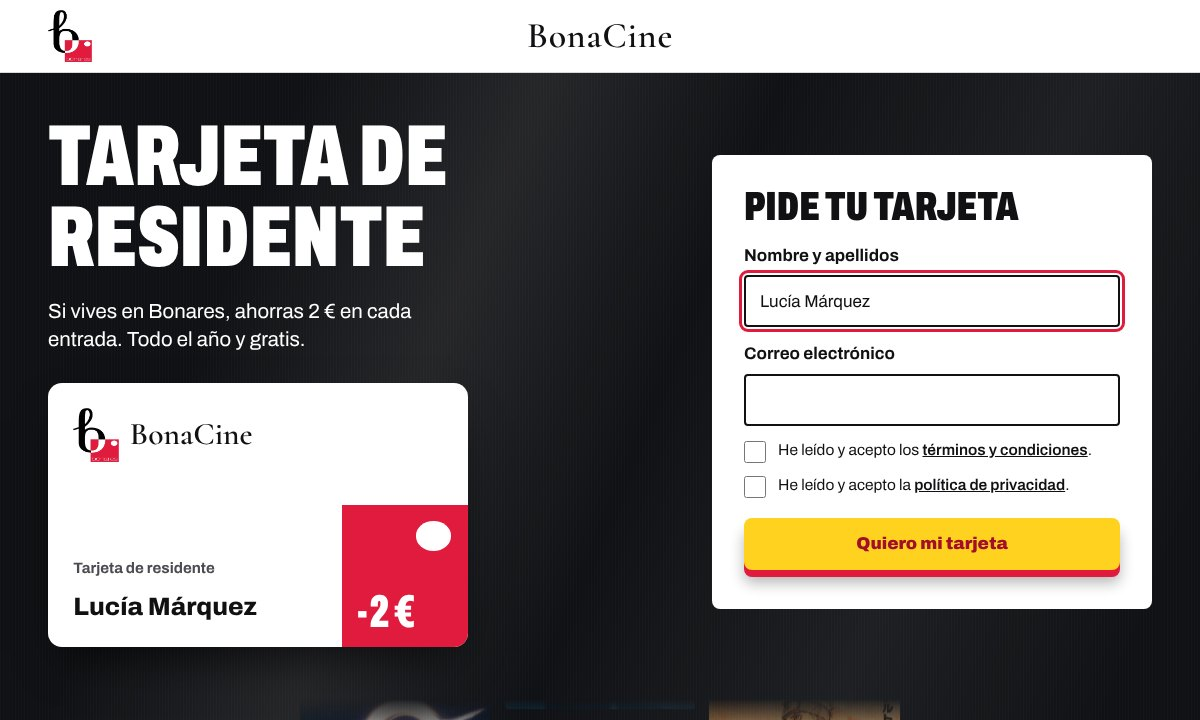
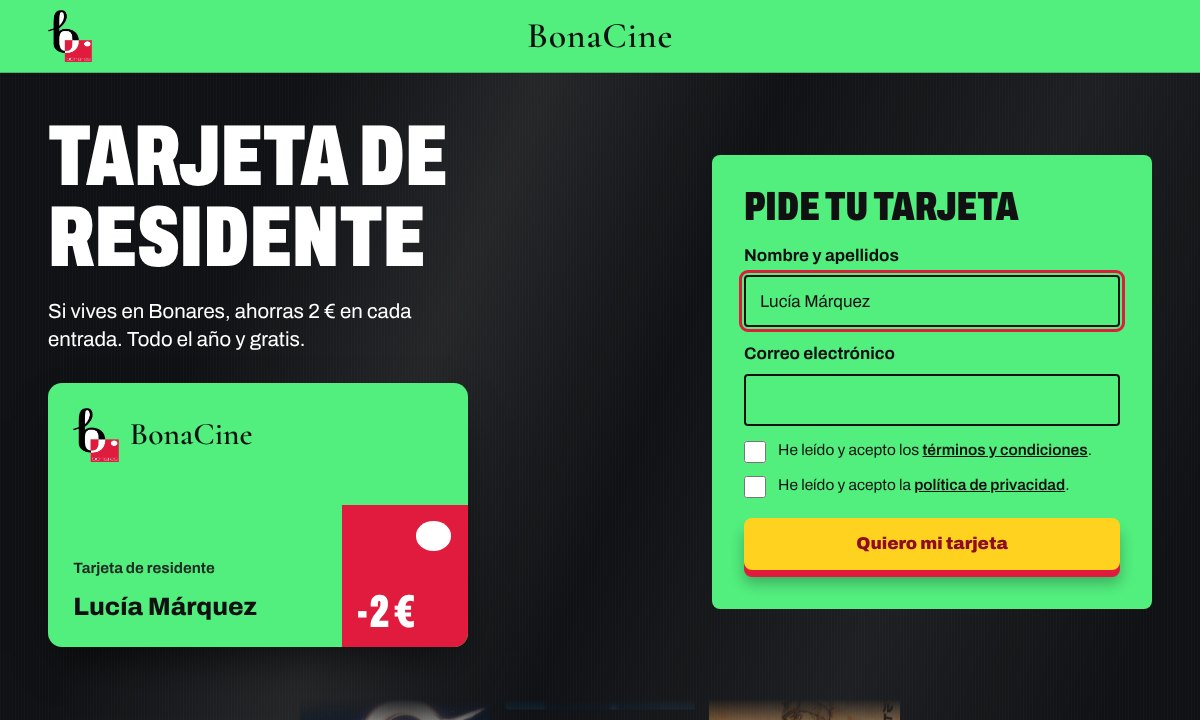
BonaCine: nueva paleta verde, mapa del teatro y datos de contacto
El verde brillante sustituye al blanco de fondo en la web, la landing y
la página legal. Añade la dirección y el mapa del Teatro Cine Colón, y
actualiza la dirección y el correo del pie, el FAQ y los textos legales.

Claude-Session: https://claude.ai/code/session_01HTnURbXqmEmRvNcHuEAsN1

diff --git a/trabajos/bonacine/estilos.css b/trabajos/bonacine/estilos.css
@@ -1,4 +1,5 @@
-/* BonaCine. Marca: rojo, negro y blanco del logo; amarillo solo para el CTA. */
+/* BonaCine. Marca: rojo, verde brillante y negro. El verde sustituye al blanco de fondo.
+   El blanco queda solo para texto sobre rojo o negro; el amarillo, para el CTA. */
 
 @font-face {
   font-family: "Cormorant Garamond";
@@ -17,8 +18,8 @@
 
 :root {
   --rojo: #E11B3D;
-  --rojo-oscuro: #B4122F;
-  --rojo-texto: #A30F2A;
+  --rojo-oscuro: #8F0C24;
+  --rojo-texto: #8F0C24;
   --amarillo: #FFD21F;
   --verde: #1E9E5A;
   /* Negro metálico: reflejos suaves, como una chapa cepillada */
@@ -28,9 +29,10 @@
     #111215;
   --negro: #111113;
   --blanco: #FFFFFF;
-  --gris: #4B4B52;
-  --linea: #D9D9DE;
-  --suave: #F4F4F5;
+  --fondo: #52EE7E;
+  --gris: #1F2B24;
+  --linea: rgb(17 17 19 / .24);
+  --suave: #38D964;
   --margen: clamp(16px, 4vw, 48px);
   --radio: 4px;
   --curva: cubic-bezier(0.16, 1, 0.3, 1);
@@ -41,7 +43,7 @@
 html { scroll-behavior: smooth; scroll-padding-top: 88px; -webkit-text-size-adjust: 100%; }
 body {
   margin: 0;
-  background: var(--blanco);
+  background: var(--fondo);
   color: var(--negro);
   font: 400 17px/1.55 "Archivo", Arial, sans-serif;
 }
@@ -106,7 +108,7 @@ h2 {
 /* ---------- Cabecera ---------- */
 .cabecera {
   position: sticky; top: 0; z-index: 20;
-  background: var(--blanco);
+  background: var(--fondo);
   border-bottom: 1px solid var(--linea);
 }
 .cabecera .envoltura { display: grid; grid-template-columns: 1fr auto 1fr; align-items: center; gap: 20px; height: 72px; }
@@ -174,7 +176,7 @@ h2 {
 .cal-dias { display: flex; gap: 8px; margin-top: 28px; overflow-x: auto; padding-bottom: 6px; scrollbar-width: thin; }
 .dia {
   flex: 1 0 76px; display: grid; justify-items: center; gap: 0; padding: 10px 6px;
-  border: 2px solid var(--negro); border-radius: var(--radio); background: var(--blanco); color: var(--negro);
+  border: 2px solid var(--negro); border-radius: var(--radio); background: var(--fondo); color: var(--negro);
   font: 600 .875rem/1.2 "Archivo", Arial, sans-serif; cursor: pointer;
   transition: background-color .18s ease, color .18s ease;
 }
@@ -185,7 +187,7 @@ h2 {
 .sesion {
   display: grid; grid-template-columns: auto minmax(0, 1fr); gap: 16px; align-items: center; width: 100%;
   padding: 14px 16px; border: 2px solid var(--linea); border-radius: var(--radio);
-  background: var(--blanco); color: var(--negro); text-align: left; font: inherit; cursor: pointer;
+  background: var(--fondo); color: var(--negro); text-align: left; font: inherit; cursor: pointer;
   transition: border-color .18s ease;
 }
 .sesion:hover { border-color: var(--negro); }
@@ -198,13 +200,13 @@ h2 {
 .barra .libre { background: var(--verde); }
 .barra .pendiente { background: var(--amarillo); }
 .barra .ocupado { background: var(--rojo); }
-.cal-mapa { scroll-margin: 88px 0 96px; background: var(--suave); border-radius: 8px; padding: clamp(18px, 3vw, 32px); }
+.cal-mapa { scroll-margin: 88px 0 96px; background: var(--negro); color: var(--blanco); border-radius: 8px; padding: clamp(18px, 3vw, 32px); }
 .mapa-titulo { font-size: 1.5rem; font-weight: 800; font-stretch: 85%; line-height: 1.15; }
-.mapa-datos { color: var(--gris); font-size: .9375rem; }
+.mapa-datos { color: var(--blanco); font-size: .9375rem; }
 .pantalla {
   width: 72%; margin: 20px auto 22px; padding-bottom: 6px;
-  border-bottom: 5px solid var(--negro); border-radius: 0 0 50% 50% / 0 0 14px 14px;
-  text-align: center; font-size: .8125rem; font-weight: 700; color: var(--gris);
+  border-bottom: 5px solid var(--blanco); border-radius: 0 0 50% 50% / 0 0 14px 14px;
+  text-align: center; font-size: .8125rem; font-weight: 700; color: var(--blanco);
 }
 .butacas {
   display: grid; grid-template-columns: repeat(var(--columnas), minmax(0, 1fr));
@@ -215,7 +217,7 @@ h2 {
   border-radius: 28% 28% 12% 12%; font-size: clamp(9px, 1.1vw, 14px); font-weight: 900; line-height: 1;
 }
 /* Además del color, cada estado lleva su signo para quien no distingue bien rojo y verde */
-.butaca.libre { background: var(--verde); }
+.butaca.libre { background: var(--fondo); }
 .butaca.pendiente { background: var(--amarillo); color: var(--negro); }
 .butaca.pendiente::after { content: "?"; }
 .butaca.ocupado { background: var(--rojo); color: var(--blanco); }
@@ -253,14 +255,14 @@ h2 {
 .ventajas { margin-top: auto; padding-top: 36px; display: grid; gap: 10px; }
 .ventajas li { display: flex; gap: 10px; line-height: 1.3; font-weight: 500; }
 .ventajas .icono { margin-top: .12em; }
-.matriz { background: var(--blanco); padding: clamp(28px, 4vw, 52px); padding-left: clamp(32px, 4.4vw, 60px); }
+.matriz { background: var(--fondo); padding: clamp(28px, 4vw, 52px); padding-left: clamp(32px, 4.4vw, 60px); }
 
 .campo { display: grid; gap: 6px; margin-bottom: 18px; }
 .campo label { font-weight: 700; }
 .campo input {
   width: 100%; min-height: 52px; padding: 0 14px;
   border: 2px solid var(--negro); border-radius: var(--radio);
-  background: var(--blanco); color: var(--negro);
+  background: var(--fondo); color: var(--negro);
   font: 400 1.0625rem "Archivo", Arial, sans-serif;
 }
 .campo input:focus-visible, .casilla input:focus-visible { outline: 3px solid var(--rojo); outline-offset: 2px; }
@@ -285,10 +287,13 @@ h2 {
 
 /* ---------- Dónde ---------- */
 .final { padding-block: clamp(56px, 8vw, 104px); }
-.final .envoltura { display: grid; grid-template-columns: 5fr 6fr; gap: 24px clamp(40px, 7vw, 96px); align-items: end; }
-.donde > p:first-child { max-width: 40ch; font-size: 1.1875rem; }
-.lugar { display: flex; gap: 8px; align-items: center; margin-top: 18px; font-weight: 800; }
-.lugar .icono { color: var(--rojo); }
+.final .envoltura { display: grid; grid-template-columns: 5fr 6fr; gap: 28px clamp(40px, 6vw, 80px); align-items: stretch; }
+.donde p { max-width: 40ch; margin-top: 16px; font-size: 1.1875rem; }
+.donde .lugar { display: flex; gap: 8px; align-items: flex-start; font-weight: 800; font-size: 1.0625rem; }
+.lugar .icono { margin-top: .2em; color: var(--rojo-oscuro); }
+.donde .boton { margin-top: 22px; }
+.mapa { min-height: 360px; border: 2px solid var(--negro); border-radius: var(--radio); overflow: hidden; background: var(--suave); }
+.mapa iframe { display: block; width: 100%; height: 100%; min-height: 356px; border: 0; }
 
 /* ---------- Preguntas frecuentes ---------- */
 .faq { padding-block: 0 clamp(56px, 8vw, 104px); }
@@ -331,7 +336,7 @@ h2 {
 .news-fila { display: flex; gap: 8px; margin-bottom: 6px; }
 .news-fila input {
   flex: 1; min-width: 0; min-height: 48px; padding: 0 12px;
-  border: 2px solid var(--negro); border-radius: var(--radio); background: var(--blanco); color: var(--negro);
+  border: 2px solid var(--negro); border-radius: var(--radio); background: var(--fondo); color: var(--negro);
   font: 400 1rem "Archivo", Arial, sans-serif;
 }
 .news-fila input:focus-visible { outline: 3px solid var(--rojo); outline-offset: 2px; }
@@ -346,7 +351,7 @@ h2 {
 .barra-cta {
   display: none; position: fixed; z-index: 15; left: 0; right: 0; bottom: 0;
   padding: 10px 16px calc(10px + env(safe-area-inset-bottom));
-  background: var(--blanco); border-top: 1px solid var(--linea);
+  background: var(--fondo); border-top: 1px solid var(--linea);
   transform: translateY(110%); visibility: hidden;
   transition: transform .3s var(--curva), visibility 0s .3s;
 }

diff --git a/trabajos/bonacine/legal.html b/trabajos/bonacine/legal.html
@@ -8,10 +8,10 @@
 <link rel="icon" href="img/favicon.png">
 <style>
   @font-face{font-family:"Archivo";src:url("fuentes/archivo-variable.woff2") format("woff2");font-weight:100 900;font-stretch:62% 125%;font-display:swap}
-  :root{--ink:#111113;--muted:#4b4b52;--rojo:#E11B3D;--linea:#e4e4e7;color-scheme:light}
+  :root{--ink:#111113;--muted:#1F2B24;--rojo:#E11B3D;--linea:rgb(17 17 19 / .24);color-scheme:light}
   *{box-sizing:border-box}
   html{scroll-behavior:smooth}
-  body{margin:0;background:#fff;color:var(--ink);font:400 17px/1.6 "Archivo",Arial,sans-serif}
+  body{margin:0;background:#52EE7E;color:var(--ink);font:400 17px/1.6 "Archivo",Arial,sans-serif}
   main{max-width:72ch;margin:0 auto;padding:32px 16px 80px}
   .volver{color:var(--ink);font-weight:700}
   .aviso{border-left:4px solid var(--rojo);padding:4px 0 4px 14px;color:var(--muted)}
@@ -21,7 +21,7 @@
   nav{display:flex;flex-wrap:wrap;gap:6px 16px;margin-top:16px}
   nav a{color:var(--ink);font-weight:700}
   p,li,td{color:var(--muted)}
-  a{color:#B4122F}
+  a{color:#8F0C24}
   table{width:100%;border-collapse:collapse;margin:8px 0}
   th,td{text-align:left;vertical-align:top;padding:8px 10px 8px 0;border-top:1px solid var(--linea)}
   th{color:var(--ink);width:38%}
@@ -32,7 +32,7 @@
 <main>
   <a class="volver" href="./">Volver a BonaCine</a>
   <h1>Información legal</h1>
-  <p class="aviso">BonaCine es un cine ficticio creado para un trabajo de clase del Grado Superior de Marketing y Publicidad. Los datos de la empresa son de ejemplo y este texto no sustituye al asesoramiento de un profesional.</p>
+  <p class="aviso">BonaCine es un cine ficticio creado para un trabajo de clase del Grado Superior de Marketing y Publicidad. El NIF y los datos registrales son de ejemplo, y este texto no sustituye al asesoramiento de un profesional.</p>
   <nav aria-label="Secciones">
     <a href="#aviso-legal">Aviso legal</a>
     <a href="#privacidad">Privacidad</a>
@@ -48,9 +48,9 @@
   <table>
     <tr><th>Denominación social</th><td>BonaCine, S.L. (empresa ficticia)</td></tr>
     <tr><th>NIF</th><td>B00000000</td></tr>
-    <tr><th>Domicilio</th><td>Calle Ejemplo, 1, 21830 Bonares (Huelva)</td></tr>
+    <tr><th>Domicilio</th><td>Calle Ermita, 36, 21830 Bonares (Huelva)</td></tr>
     <tr><th>Datos registrales</th><td>Registro Mercantil de Huelva, tomo 0000, folio 00, hoja H-00000</td></tr>
-    <tr><th>Contacto</th><td>hola@bonacine.example</td></tr>
+    <tr><th>Contacto</th><td>Bonacine@gmail.com</td></tr>
   </table>
   <h3>Propiedad intelectual</h3>
   <p>Los textos, el diseño y la marca BonaCine pertenecen a su titular. Los títulos y carteles de las películas pertenecen a sus productoras y distribuidoras.</p>
@@ -78,10 +78,10 @@
   <h3>Cuánto tiempo los conservamos</h3>
   <p>Mientras sigas registrado. Cuando pidas la baja, bloquearemos tus datos durante los plazos en que pudieran exigirse responsabilidades y después los suprimiremos.</p>
   <h3>Tus derechos</h3>
-  <p>Puedes pedir el acceso, la rectificación, la supresión, la oposición, la limitación del tratamiento y la portabilidad de tus datos, y retirar tu consentimiento, escribiendo a hola@bonacine.example. También puedes reclamar ante la <a href="https://www.aepd.es">Agencia Española de Protección de Datos</a>.</p>
+  <p>Puedes pedir el acceso, la rectificación, la supresión, la oposición, la limitación del tratamiento y la portabilidad de tus datos, y retirar tu consentimiento, escribiendo a Bonacine@gmail.com. También puedes reclamar ante la <a href="https://www.aepd.es">Agencia Española de Protección de Datos</a>.</p>
 
   <h2 id="cookies">Política de cookies</h2>
-  <p>Esta web no instala cookies de análisis, de publicidad ni de redes sociales, y sus tipografías se cargan desde la propia web. Por eso no muestra un banner de cookies. Si esto cambiara, te pediríamos permiso antes de instalarlas.</p>
+  <p>Esta web no instala cookies de análisis, de publicidad ni de redes sociales, y sus tipografías se cargan desde la propia web. Por eso no muestra un banner de cookies. El mapa de la página principal lo sirve OpenStreetMap, que recibe tu dirección IP al cargarlo. Si esto cambiara, te pediríamos permiso antes de instalarlas.</p>
 
   <h2 id="terminos">Términos y condiciones</h2>
   <h3>Uso de la web</h3>
@@ -117,10 +117,10 @@
   </ul>
 
   <h2 id="reclamaciones">Quejas y reclamaciones</h2>
-  <p>Tienes a tu disposición hojas oficiales de quejas y reclamaciones de la Junta de Andalucía en la taquilla del cine. También puedes escribirnos a hola@bonacine.example.</p>
+  <p>Tienes a tu disposición hojas oficiales de quejas y reclamaciones de la Junta de Andalucía en la taquilla del cine. También puedes escribirnos a Bonacine@gmail.com.</p>
 
   <h2 id="baja">Darse de baja</h2>
-  <p>Puedes dejar de recibir la newsletter en cualquier momento y gratis: usa el enlace de baja que incluye cada correo o escribe a hola@bonacine.example con el asunto «BAJA».</p>
+  <p>Puedes dejar de recibir la newsletter en cualquier momento y gratis: usa el enlace de baja que incluye cada correo o escribe a Bonacine@gmail.com con el asunto «BAJA».</p>
 </main>
 </body>
 </html>

diff --git a/trabajos/bonacine/tarjeta.css b/trabajos/bonacine/tarjeta.css
@@ -16,7 +16,7 @@ h1 {
 .tarjeta-visual {
   position: relative; overflow: hidden; container-type: inline-size;
   width: min(100%, 420px); aspect-ratio: 1.586; margin-top: clamp(24px, 4vh, 36px);
-  border-radius: 14px; background: var(--blanco); color: var(--negro);
+  border-radius: 14px; background: var(--fondo); color: var(--negro);
   box-shadow: 0 22px 44px -16px rgb(0 0 0 / .7);
 }
 .tv-cabeza { position: absolute; top: 6cqw; left: 6cqw; display: flex; align-items: center; gap: 2.5cqw; }
@@ -32,7 +32,7 @@ h1 {
 .tv-importe { position: absolute; left: 3.5cqw; bottom: 3cqw; font-size: 11cqw; font-weight: 900; font-stretch: 62%; line-height: 1; }
 
 /* Formulario */
-.panel-form { background: var(--blanco); color: var(--negro); border-radius: 8px; padding: clamp(22px, 3vw, 32px); }
+.panel-form { background: var(--fondo); color: var(--negro); border-radius: 8px; padding: clamp(22px, 3vw, 32px); }
 .panel-form h2 { margin-bottom: 16px; font-size: clamp(2rem, 3.4vw, 2.75rem); }
 .panel-form .campo { margin-bottom: 14px; }
 .panel-form .boton { width: 100%; margin-top: 8px; }
@@ -49,7 +49,7 @@ h1 {
 .resena { display: grid; grid-template-columns: 84px minmax(0, 1fr); gap: 18px; padding-bottom: 22px; border-bottom: 1px solid var(--linea); }
 .resena img { width: 100%; height: auto; aspect-ratio: 2 / 3; object-fit: cover; border-radius: var(--radio); }
 .resena h3 { font-size: 1.3125rem; font-weight: 800; font-stretch: 85%; line-height: 1.15; }
-.nota { display: block; margin: 4px 0 6px; color: var(--rojo); font-size: 1.125rem; letter-spacing: .08em; line-height: 1; }
+.nota { display: block; margin: 4px 0 6px; color: var(--rojo-oscuro); font-size: 1.125rem; letter-spacing: .08em; line-height: 1; }
 .nota-vacia { color: var(--linea); }
 .resena-autor { margin-top: 8px; color: var(--gris); font-size: .875rem; font-weight: 600; }
 
@@ -58,7 +58,7 @@ h1 {
 .form-resena .campo { margin-bottom: 14px; }
 .campo select, .campo textarea {
   width: 100%; padding: 12px 14px; border: 2px solid var(--negro); border-radius: var(--radio);
-  background: var(--blanco); color: var(--negro); font: 400 1.0625rem/1.4 "Archivo", Arial, sans-serif;
+  background: var(--fondo); color: var(--negro); font: 400 1.0625rem/1.4 "Archivo", Arial, sans-serif;
 }
 .campo select { min-height: 52px; }
 .campo textarea { resize: vertical; }
@@ -66,8 +66,8 @@ h1 {
 .estrellas { margin: 0 0 14px; padding: 0; border: 0; }
 .estrellas legend { padding: 0; margin-bottom: 4px; font-weight: 700; }
 .estrellas-fila { display: flex; gap: 2px; }
-.estrellas-fila label { position: relative; display: grid; place-items: center; width: 44px; height: 44px; color: #8E8E96; font-size: 1.875rem; cursor: pointer; }
-.estrellas-fila label.activa { color: var(--rojo); }
+.estrellas-fila label { position: relative; display: grid; place-items: center; width: 44px; height: 44px; color: rgb(17 17 19 / .38); font-size: 1.875rem; cursor: pointer; }
+.estrellas-fila label.activa { color: var(--rojo-oscuro); }
 .estrellas-fila input { position: absolute; inset: 0; margin: 0; opacity: 0; cursor: pointer; }
 .estrellas-fila label:has(input:focus-visible) { outline: 3px solid var(--rojo); outline-offset: 1px; border-radius: var(--radio); }
 .form-resena .boton { width: 100%; margin-top: 6px; }

diff --git a/trabajos/bonacine/index.html b/trabajos/bonacine/index.html
@@ -5,7 +5,7 @@
 <meta name="viewport" content="width=device-width, initial-scale=1">
 <title>BonaCine | Estrenos en Bonares, Huelva</title>
 <meta name="description" content="El Peliculón llega a Bonares. Regístrate gratis en BonaCine y llévate 2 € de descuento en tu primera entrada.">
-<meta name="theme-color" content="#E11B3D">
+<meta name="theme-color" content="#52EE7E">
 <meta property="og:title" content="BonaCine | Estrenos en Bonares, Huelva">
 <meta property="og:description" content="Regístrate gratis y llévate 2 € de descuento en tu primera entrada.">
 <meta property="og:type" content="website">
@@ -135,10 +135,14 @@
 
   <section class="final" id="donde" aria-labelledby="titulo-donde">
     <div class="envoltura">
-      <h2 id="titulo-donde">Tu cine está aquí al lado</h2>
       <div class="donde">
+        <h2 id="titulo-donde">Tu cine está aquí al lado</h2>
         <p>Un cine de pueblo con los estrenos de la ciudad. Sin coche, sin aparcar y sin ir hasta Huelva.</p>
-        <p class="lugar"><svg class="icono" aria-hidden="true"><use href="#i-lugar"/></svg>Bonares, Huelva. Sesiones de miércoles a domingo.</p>
+        <p class="lugar"><svg class="icono" aria-hidden="true"><use href="#i-lugar"/></svg><span>Teatro Cine Colón, Calle Cervantes, 2, 21830 Bonares (Huelva). Sesiones de miércoles a domingo.</span></p>
+        <a class="boton" href="https://maps.app.goo.gl/MCVVDwedZqAEpjhy7" target="_blank" rel="noopener">Cómo llegar</a>
+      </div>
+      <div class="mapa">
+        <iframe title="Mapa del Teatro Cine Colón, en Bonares" src="https://www.openstreetmap.org/export/embed.html?bbox=-6.6861%2C37.3199%2C-6.6781%2C37.3250&amp;layer=mapnik&amp;marker=37.32245%2C-6.68209" loading="lazy"></iframe>
       </div>
     </div>
   </section>
@@ -156,7 +160,7 @@
   <div class="envoltura pie-rejilla">
     <div class="pie-marca">
       <img src="img/logo-bonacine.png" alt="BonaCine" width="338" height="400" loading="lazy">
-      <p><strong>BonaCine</strong><br>Calle Ejemplo, 1<br>21830 Bonares (Huelva)<br><a href="mailto:hola@bonacine.example">hola@bonacine.example</a></p>
+      <p><strong>BonaCine</strong><br>Calle Ermita, 36<br>21830 Bonares (Huelva)<br><a href="mailto:Bonacine@gmail.com">Bonacine@gmail.com</a></p>
     </div>
 
     <nav aria-label="Información legal">
@@ -205,7 +209,7 @@
 
   <div class="envoltura pie-base">
     <p>© 2026 BonaCine. Este sitio no usa cookies de análisis ni de publicidad.</p>
-    <p>BonaCine es un cine ficticio creado para un trabajo de clase de Marketing y Publicidad. Los títulos y carteles pertenecen a sus titulares y se usan solo con fines educativos.</p>
+    <p>BonaCine es un cine ficticio creado para un trabajo de clase de Marketing y Publicidad. Los títulos y carteles pertenecen a sus titulares y se usan solo con fines educativos. El Teatro Cine Colón no participa en este proyecto.</p>
   </div>
 </footer>
 

diff --git a/proyectos.js b/proyectos.js
@@ -84,7 +84,7 @@ const PROYECTOS = [
     contexto: "Clase",
     fecha: "2026-11",
     destacado: false,
-    colores: ["#111215", "#FFD21F", "#E11B3D"],
+    colores: ["#52EE7E", "#E11B3D", "#111113"],
     resumen: "Landing page de captación para los vecinos de Bonares: una tarjeta de residente con 2 € de descuento en cada entrada. Programada desde cero. Concepto académico.",
     reto: "Conseguir que los vecinos de un pueblo pidan la tarjeta del cine, con una página de un solo objetivo y un formulario que cumpla el RGPD.",
     solucion: "Planteé la oferta y el formulario en el primer vistazo: nombre y apellidos, correo y dos opt-in separados para los términos y la privacidad. La tarjeta muestra el nombre mientras se escribe, para que la persona la sienta suya. Debajo, un carrusel de carteles aporta emoción y una sección de reseñas abre la participación, con cada texto de ejemplo marcado como tal.",
@@ -101,7 +101,7 @@ const PROYECTOS = [
     contexto: "Clase",
     fecha: "2026-11",
     destacado: false,
-    colores: ["#E11B3D", "#FFFFFF", "#111113"],
+    colores: ["#52EE7E", "#E11B3D", "#111113"],
     resumen: "Landing page para un cine de pueblo ficticio: anuncia su cartelera y capta registros con un descuento de 2 € y una newsletter. Programada desde cero. Concepto académico.",
     reto: "Dar a un cine pequeño de Bonares (Huelva) una página que anuncie sus estrenos y convierta visitas en contactos a los que avisar, compitiendo con ir al cine en la ciudad.",
     solucion: "Planteé la portada en torno a «El Peliculón»: la película principal en horizontal sobre negro metálico, con un CTA en 3D justo debajo. La cartelera se actualiza desde un solo archivo y el formulario, con forma de entrada, separa el consentimiento obligatorio del comercial y entrega un código de descuento. Un carrusel vertical de carteles da ritmo a la página y un calendario muestra lo llena que va cada sala con un mapa de butacas en verde, amarillo y rojo. Las preguntas frecuentes salen de las intenciones del chatbot del cine y el pie reúne newsletter, redes y los textos legales: aviso legal, privacidad, cookies, términos y bases. Dejé preparado el envío a Google Sheets y por correo con Apps Script.",

diff --git a/trabajos/bonacine/tarjeta.html b/trabajos/bonacine/tarjeta.html
@@ -5,7 +5,7 @@
 <meta name="viewport" content="width=device-width, initial-scale=1">
 <title>Tarjeta de residente | BonaCine</title>
 <meta name="description" content="Si vives en Bonares, pide gratis tu tarjeta de residente de BonaCine y ahorra 2 € en cada entrada.">
-<meta name="theme-color" content="#111215">
+<meta name="theme-color" content="#52EE7E">
 <meta property="og:title" content="Tarjeta de residente | BonaCine">
 <meta property="og:description" content="Si vives en Bonares, ahorra 2 € en cada entrada.">
 <meta property="og:type" content="website">
@@ -145,7 +145,7 @@
   <div class="envoltura pie-rejilla">
     <div class="pie-marca">
       <img src="img/logo-bonacine.png" alt="BonaCine" width="338" height="400" loading="lazy">
-      <p><strong>BonaCine</strong><br>Calle Ejemplo, 1<br>21830 Bonares (Huelva)<br><a href="mailto:hola@bonacine.example">hola@bonacine.example</a></p>
+      <p><strong>BonaCine</strong><br>Calle Ermita, 36<br>21830 Bonares (Huelva)<br><a href="mailto:Bonacine@gmail.com">Bonacine@gmail.com</a></p>
     </div>
 
     <nav aria-label="Información legal">
@@ -194,7 +194,7 @@
 
   <div class="envoltura pie-base">
     <p>© 2026 BonaCine. Este sitio no usa cookies de análisis ni de publicidad.</p>
-    <p>BonaCine es un cine ficticio creado para un trabajo de clase de Marketing y Publicidad. Los títulos y carteles pertenecen a sus titulares y se usan solo con fines educativos.</p>
+    <p>BonaCine es un cine ficticio creado para un trabajo de clase de Marketing y Publicidad. Los títulos y carteles pertenecen a sus titulares y se usan solo con fines educativos. El Teatro Cine Colón no participa en este proyecto.</p>
   </div>
 </footer>
 

diff --git a/trabajos/bonacine/preguntas.js b/trabajos/bonacine/preguntas.js
@@ -36,10 +36,10 @@ const PREGUNTAS = [
   {
     grupo: "El cine y tu cuenta",
     intenciones: [
-      { intencion: "ubicacion", pregunta: "¿Dónde está BonaCine?", respuesta: "En Calle Ejemplo, 1, 21830 Bonares (Huelva)." },
-      { intencion: "contactar", pregunta: "¿Cómo hablo con el cine?", respuesta: "Pregúntanos en taquilla o escríbenos a hola@bonacine.example." },
+      { intencion: "ubicacion", pregunta: "¿Dónde está BonaCine?", respuesta: "En el Teatro Cine Colón, Calle Cervantes, 2, 21830 Bonares (Huelva)." },
+      { intencion: "contactar", pregunta: "¿Cómo hablo con el cine?", respuesta: "Pregúntanos en taquilla o escríbenos a Bonacine@gmail.com." },
       { intencion: "correos_comerciales", pregunta: "¿Me vais a llenar el correo?", respuesta: "No. Solo te escribimos con la cartelera si marcas esa casilla. El descuento es tuyo la marques o no." },
-      { intencion: "darse_de_baja", pregunta: "¿Cómo me doy de baja?", respuesta: "Usa el enlace de baja de cualquier correo o escríbenos a hola@bonacine.example con el asunto «BAJA»." }
+      { intencion: "darse_de_baja", pregunta: "¿Cómo me doy de baja?", respuesta: "Usa el enlace de baja de cualquier correo o escríbenos a Bonacine@gmail.com con el asunto «BAJA»." }
     ]
   }
 ];
